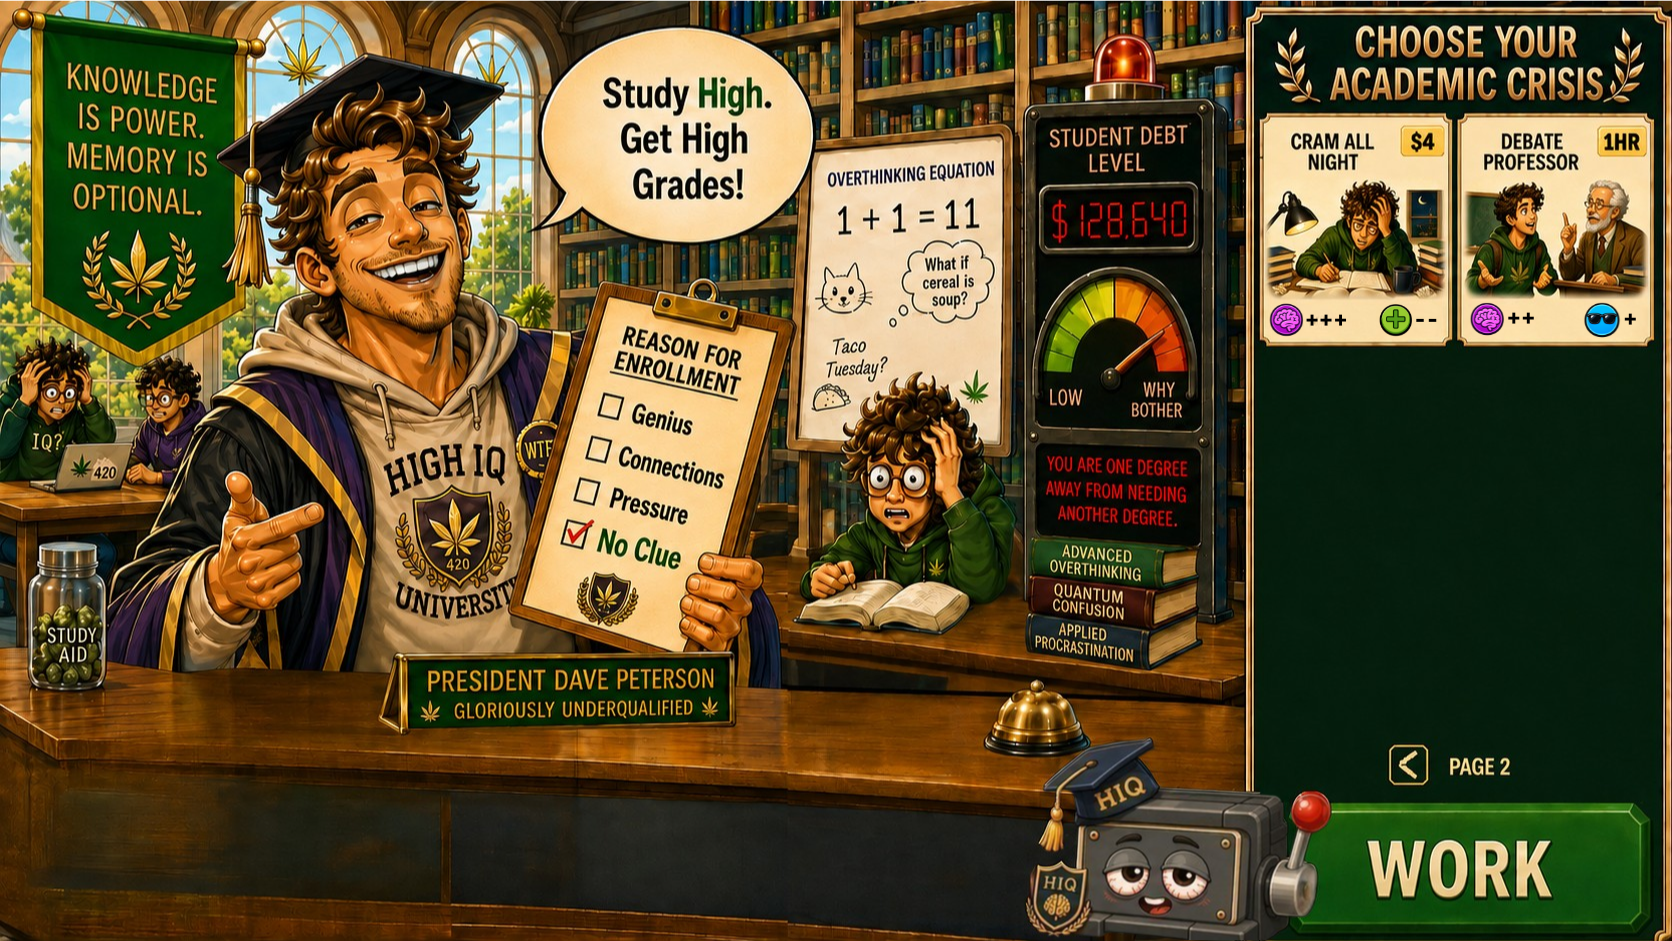
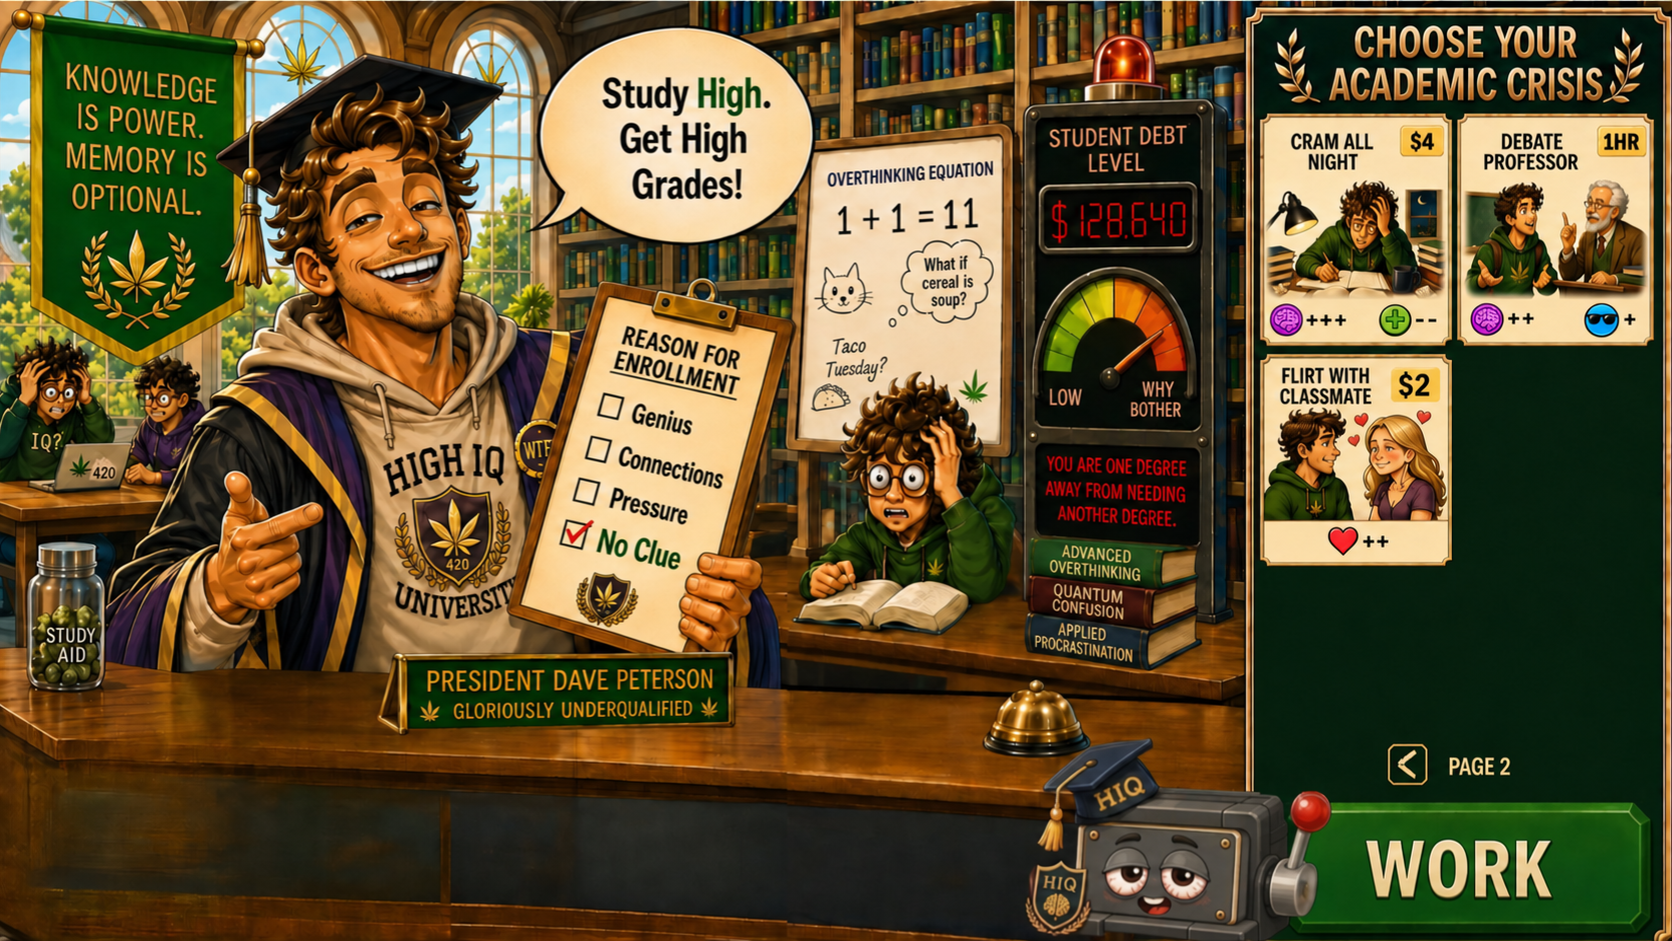
Wire in 2026-09-16 menu repaints; Gym/Pet Shop repriced to art; club jobs need dress code
Art: University pages 1-2 (5 path cards + Flirt on page 2), Regret Burger,
Air One (re-measured grid, new 2-week groceries card), Debtstreet (Cash Out
replaces Penny Stocks), Low-Cost and Heelton rent offices.
University path cards open the catalog on their path and show COMPLETE.

Balance Lock v5 sheet: Gym $5/$10/$25/$40/$15 and Pet Shop food $20,
toy $25, feed $5, bathe $10, bribe $50 to match the painted menus.

Fix: the job board offered Bad Decisions Club jobs to players who fail the
club dress code, so they could never reach work and got fired.
Bots no longer grind stat-draining shifts at low Health/Happiness.

diff --git a/js/ui.js b/js/ui.js
@@ -1252,6 +1252,7 @@
     var activeH = actionId === h.a ? h : Object.assign({}, h, { a: actionId });
     btn.dataset.a = actionId;
     if (h.choice) btn._choice = h.choice;
+    if (h.focusPath) btn._focusPath = h.focusPath;
     btn.style.left = h.box[0] + "%";
     btn.style.top = h.box[1] + "%";
     btn.style.width = h.box[2] + "%";
@@ -1263,6 +1264,7 @@
       if (!isMyTurn()) { toast("Not your turn"); return; }
       click();
       hideTip();
+      UI.coursePathFocus = btn._focusPath || null;
       doAction(actionId, btn._choice);
     };
     return btn;
@@ -1408,11 +1410,19 @@
       var item = itemName && E.ITEMS && E.ITEMS[itemName];
       var owned = item && p.items.indexOf(item.name) !== -1;   // one-time buy already owned
       if (!locked && item && itemBlockReason(p, item)) locked = true;
+      // university path cards: completed paths show a green COMPLETE chip,
+      // paths beyond the next course show locked (the catalog still opens)
+      var fp = btn._focusPath, pathDone = fp && E.pathComplete(p, fp);
+      if (fp && !pathDone) {
+        var nextC = E.nextCourse(p);
+        locked = !ann || !ann.ok || (nextC ? nextC.path < fp : false);
+      }
+      if (pathDone) { locked = true; owned = true; }
       btn.classList.toggle("locked", locked);
       btn.classList.toggle("owned", !!owned);
       var lc = btn.querySelector(".lock-chip");
       lc.style.display = locked ? "" : "none";
-      lc.textContent = owned ? "✓ OWNED" : "🔒";
+      lc.textContent = pathDone ? "✓ COMPLETE" : owned ? "✓ OWNED" : "🔒";
       var tc = btn.querySelector(".tu-chip");
       if (ann) tc.textContent = ann.tu + " TU" + (ann.cost ? " · $" + ann.cost : "");
     });
@@ -1669,6 +1679,12 @@
           }).join("") + "</div>";
       }).join("");
     openDialog("shop");
+    // opened from a painted path card: bring that path into view
+    if (UI.coursePathFocus) {
+      var focusEl = $$("#shop-grid .course-path")[UI.coursePathFocus - 1];
+      UI.coursePathFocus = null;
+      if (focusEl) { focusEl.classList.add("focus"); focusEl.scrollIntoView({ block: "center" }); }
+    }
     $$("#shop-grid .shop-item.course").forEach(function (b) {
       b.onclick = function () {
         click();

diff --git a/assets/data/gamedata.js b/assets/data/gamedata.js
@@ -1391,7 +1391,7 @@ var PP_DATA = {
    "name": "Cardio Session",
    "category": "Health",
    "tu": 1,
-   "costPct": 0.01,
+   "costPct": 0.05,
    "gains": [
     {
      "stat": "health",
@@ -1410,7 +1410,7 @@ var PP_DATA = {
    "name": "Chest Day",
    "category": "Health",
    "tu": 1,
-   "costPct": 0.02,
+   "costPct": 0.1,
    "gains": [
     {
      "stat": "health",
@@ -1438,7 +1438,7 @@ var PP_DATA = {
    "name": "Treninator Bootcamp",
    "category": "Health",
    "tu": 2,
-   "costPct": 0.05,
+   "costPct": 0.25,
    "gains": [
     {
      "stat": "health",
@@ -1462,7 +1462,7 @@ var PP_DATA = {
    "name": "Buy Suspicious Test Booster",
    "category": "Shopping",
    "tu": 1,
-   "costPct": 0.08,
+   "costPct": 0.4,
    "gains": [
     {
      "stat": "health",
@@ -1537,7 +1537,7 @@ var PP_DATA = {
    "name": "Personal Best Challenge",
    "category": "Health",
    "tu": 2,
-   "costPct": 0.03,
+   "costPct": 0.15,
    "gains": [
     {
      "stat": "health",
@@ -2940,7 +2940,7 @@ var PP_DATA = {
    "name": "Buy Pet Food",
    "category": "Pet",
    "tu": 1,
-   "costPct": 0.04,
+   "costPct": 0.2,
    "gains": [],
    "petGains": [],
    "penalties": [],
@@ -2963,7 +2963,7 @@ var PP_DATA = {
    "name": "Buy Pet Toy",
    "category": "Pet",
    "tu": 1,
-   "costPct": 0.05,
+   "costPct": 0.25,
    "gains": [],
    "petGains": [
     {
@@ -2990,7 +2990,7 @@ var PP_DATA = {
    "name": "Feed Animals",
    "category": "Pet",
    "tu": 1,
-   "costPct": 0.01,
+   "costPct": 0.05,
    "gains": [],
    "petGains": [
     {
@@ -3013,7 +3013,7 @@ var PP_DATA = {
    "name": "Bathe Animals",
    "category": "Pet",
    "tu": 1,
-   "costPct": 0.02,
+   "costPct": 0.1,
    "gains": [],
    "petGains": [
     {
@@ -3060,7 +3060,7 @@ var PP_DATA = {
    "name": "Bribe Inspector",
    "category": "Risk",
    "tu": 1,
-   "costPct": 0.1,
+   "costPct": 0.5,
    "gains": [
     {
      "stat": "critical",

diff --git a/test/airone_ui.js b/test/airone_ui.js
@@ -30,13 +30,15 @@ var SHOTS = path.join(__dirname, "shots");
     return nodes.map(function (b) { return { id: b.dataset.a, box: [b.style.left, b.style.top, b.style.width, b.style.height] }; });
   });
   var ids = buttons.map(function (b) { return b.id; });
-  var expectedIds = ["A026", "A027", "A028", "A029", "A031", "A032", "A030", "A033"];
+  var expectedIds = ["A026", "A027", "A028", "A029", "A031", "A032", "A121", "A030", "A033"];
   if (ids.join(",") !== expectedIds.join(",")) throw new Error("Air One ids: " + ids.join(","));
   var expectedBoxes = {
-    A026: ["70.6%", "11.5%", "12.9%", "18.9%"], A027: ["83.9%", "11.5%", "14.9%", "18.9%"],
-    A028: ["70.6%", "32.2%", "12.9%", "18.8%"], A029: ["83.9%", "32.2%", "14.9%", "18.8%"],
-    A031: ["70.6%", "53.8%", "12.9%", "15.3%"], A032: ["83.9%", "53.8%", "14.9%", "15.3%"],
-    A030: ["70.6%", "71.7%", "28.2%", "8.3%"], A033: ["77.2%", "84%", "21.6%", "11.8%"]
+    // 2026-09-16 repaint: 4 rows, bottom row split into 2-week groceries + Judge Window Shoppers
+    A026: ["70.4%", "10.6%", "13.6%", "19.2%"], A027: ["84.7%", "10.6%", "14%", "19.2%"],
+    A028: ["70.4%", "30.8%", "13.6%", "18.5%"], A029: ["84.7%", "30.8%", "14%", "18.5%"],
+    A031: ["70.4%", "50.3%", "13.6%", "16.8%"], A032: ["84.7%", "50.3%", "14%", "16.8%"],
+    A121: ["70.4%", "68.2%", "13.6%", "13.7%"], A030: ["84.7%", "68.2%", "14%", "13.7%"],
+    A033: ["77.2%", "84%", "21.6%", "11.8%"]
   };
   buttons.forEach(function (b) {
     if (b.box.join(",") !== expectedBoxes[b.id].join(",")) throw new Error("Air One box " + b.id + ": " + b.box.join(","));

diff --git a/assets/data/scene_hotspots.js b/assets/data/scene_hotspots.js
@@ -39,13 +39,15 @@ var PP_HOTSPOTS = {
     { a: "A023", box: [85.4, 55.0, 13.0, 19.4] }
   ],
   airOne: [
-    { a: "A026", box: [70.6, 11.5, 12.9, 18.9] },
-    { a: "A027", box: [83.9, 11.5, 14.9, 18.9] },
-    { a: "A028", box: [70.6, 32.2, 12.9, 18.8] },
-    { a: "A029", box: [83.9, 32.2, 14.9, 18.8] },
-    { a: "A031", box: [70.6, 53.8, 12.9, 15.3] },
-    { a: "A032", box: [83.9, 53.8, 14.9, 15.3] },
-    { a: "A030", box: [70.6, 71.7, 28.2, 8.3] },
+    // re-measured for the v5 repaint (2026-09-16): 4 rows, bottom row split
+    { a: "A026", box: [70.4, 10.6, 13.6, 19.2] },
+    { a: "A027", box: [84.7, 10.6, 14.0, 19.2] },
+    { a: "A028", box: [70.4, 30.8, 13.6, 18.5] },
+    { a: "A029", box: [84.7, 30.8, 14.0, 18.5] },
+    { a: "A031", box: [70.4, 50.3, 13.6, 16.8] },
+    { a: "A032", box: [84.7, 50.3, 14.0, 16.8] },
+    { a: "A121", box: [70.4, 68.2, 13.6, 13.7] },
+    { a: "A030", box: [84.7, 68.2, 14.0, 13.7] },
     { a: "A033", work: true, box: [77.2, 84.0, 21.6, 11.8] }
   ],
   regretBurger: [
@@ -106,7 +108,7 @@ var PP_HOTSPOTS = {
     { a: "A088", box: [82.0, 31.0, 16.0, 15.0] },
     { a: "A089", box: [68.5, 47.0, 13.0, 15.0] },
     { a: "A090", box: [82.0, 47.0, 16.0, 15.0] },
-    { a: "A091", box: [68.5, 63.0, 29.5, 11.0] },
+    { a: "A119", box: [68.5, 63.0, 29.5, 11.0] },   // v5 repaint: Cash Out replaced Buy Penny Stocks (now in More)
     { a: "A092", work: true, box: [68.5, 83.0, 29.5, 13.5] }
   ],
   airport: [

diff --git a/assets/data/scene_visuals.js b/assets/data/scene_visuals.js
@@ -124,12 +124,13 @@
         img: V3 + "high_iq_university_page_1.png",
         arrows: { prev: [0, 0, 0, 0], next: [88.7, 78.7, 4.2, 5.9] },
         hotspots: [
-          { a: "A120", box: [75.0, 12.2, 11.6, 23.4] },
-          { a: "A068", box: [87.0, 12.2, 11.5, 23.4] },
-          { a: "A069", box: [75.0, 35.7, 11.6, 23.6] },
-          { a: "A120", box: [87.0, 35.7, 11.5, 23.6] },
-          { a: "A120", box: [75.0, 59.8, 11.6, 21.4] },
-          { a: "A120", box: [87.0, 59.8, 11.5, 21.4] }
+          // v5 repaint: one card per education path (opens the catalog on that path)
+          { a: "A120", focusPath: 1, box: [75.0, 12.2, 11.6, 23.4] },
+          { a: "A120", focusPath: 2, box: [87.0, 12.2, 11.5, 23.4] },
+          { a: "A120", focusPath: 3, box: [75.0, 35.7, 11.6, 23.6] },
+          { a: "A120", focusPath: 4, box: [87.0, 35.7, 11.5, 23.6] },
+          { a: "A120", focusPath: 5, box: [75.0, 59.8, 11.6, 21.4] },
+          { a: "A068", box: [87.0, 59.8, 11.5, 21.4] }
         ]
       },
       {
@@ -137,7 +138,8 @@
         arrows: { prev: [82.7, 78.4, 4.2, 6.2], next: [0, 0, 0, 0] },
         hotspots: [
           { a: "A073", box: [75.0, 12.2, 11.6, 24.3] },
-          { a: "A074", box: [87.0, 12.2, 11.5, 24.3] }
+          { a: "A074", box: [87.0, 12.2, 11.5, 24.3] },
+          { a: "A069", box: [75.4, 38.2, 11.4, 21.9] }
         ]
       }
     ] }]

diff --git a/test/v5_rules.js b/test/v5_rules.js
@@ -180,13 +180,22 @@ test("lifestyle loan: +15%B now, -5%B at the start of each of the next 4 turns, 
   assert.strictEqual(p.debts.length, 0);
 });
 
-test("Bribe Inspector costs money + Critical Thinking; Contact P.I.T.A. once per game", () => {
+test("Bribe Inspector costs $50 + Critical Thinking; Contact P.I.T.A. once per game", () => {
   const st = game(), p = st.players[0]; rich(p, 500); p.location = "petShop";
   const c = p.stats.critical;
   assert.ok(E.perform(st, "A108").ok);
-  assert.strictEqual(p.stats.money, 490); assert.ok(p.stats.critical > c);
+  assert.strictEqual(p.stats.money, 450); assert.ok(p.stats.critical > c);   // $50: matches the painted Bribes card
   assert.ok(E.perform(st, "A109").ok);
   assert.strictEqual(E.perform(st, "A109").ok, false);
+});
+
+test("club jobs require the club dress code (no unworkable hires)", () => {
+  const st = game(), p = st.players[0]; rich(p); p.location = "soulExchange";
+  let r = E.perform(st, "A076", { job: "Coat Check Staff", building: "club" });
+  assert.strictEqual(r.ok, false); assert.match(r.why, /Dress code/);
+  p.items.push("Dressy Clothes", "Dress Shoes"); p.stats.coolness = 100;
+  r = E.perform(st, "A076", { job: "Coat Check Staff", building: "club" });
+  assert.ok(r.ok, r.why);
 });
 
 test("final score counts Money at most T (max score 6T)", () => {

diff --git a/test/scene_visuals.js b/test/scene_visuals.js
@@ -35,10 +35,10 @@ pages.luxury.tabs[0].pages.forEach(page => {
   assert.deepStrictEqual(Array.from(page.hotspots, h => h.a), ["A009", "A010", "A011", "A012", "A013", "A014", "A015", "A016"]);
 });
 assert.strictEqual(pages.university.tabs[0].pages.length, 2);
-assert.deepStrictEqual(Array.from(pages.university.tabs[0].pages[1].hotspots, h => h.a), ["A073", "A074"]);
+assert.deepStrictEqual(Array.from(pages.university.tabs[0].pages[1].hotspots, h => h.a), ["A073", "A074", "A069"]);
 assert.strictEqual(pages.airport.tabs[0].pages.length, 2);
 assert.deepStrictEqual(Array.from(pages.airport.tabs[0].pages[1].hotspots, h => h.a), ["A099", "A100"]);
-assert.deepStrictEqual(Array.from(hotspots.airOne, h => h.a), ["A026", "A027", "A028", "A029", "A031", "A032", "A030", "A033"]);
+assert.deepStrictEqual(Array.from(hotspots.airOne, h => h.a), ["A026", "A027", "A028", "A029", "A031", "A032", "A121", "A030", "A033"]);
 assert.deepStrictEqual(JSON.parse(JSON.stringify(pages.luxury.tabs[1].pages[0].hotspots[0].aByHousing)),
   { lux: "X007", low: "X003", homeless: "X009" });
 assert.deepStrictEqual(JSON.parse(JSON.stringify(pages.lowCost.tabs[1].pages[0].hotspots[0].aByHousing)),

diff --git a/js/bots.js b/js/bots.js
@@ -256,9 +256,11 @@
     var goal = shoppingGoal(state, p);
     var nextFee = course ? E.courseCostDue(state, p, course) : 0;
     var needCash = p.stats.money < 4 * B || (goal && !goal.affordable) || p.stats.money < nextFee + reserveOf(state, p) ||
-      (p.job && Object.keys(DATA.jobProgression.tiers).some(function (t) {   // keep earning tier clicks
-        var g = E.tierGate(state, p, t); return g.pathOk && !g.clicksOk;
-      }));
+      // keep earning tier clicks — but never grind a stat-draining job into the ground
+      (p.job && p.stats.health > 0.3 * T && p.stats.happiness > 0.3 * T &&
+        Object.keys(DATA.jobProgression.tiers).some(function (t) {
+          var g = E.tierGate(state, p, t); return g.pathOk && !g.clicksOk;
+        }));
     if (p.job && needCash) {
       if (p.location === p.job.building) {
         var work = findHere(function (x) { return x.name === "Work"; });

diff --git a/test/manual_menu_coverage.js b/test/manual_menu_coverage.js
@@ -13,7 +13,7 @@ var ranges = {
 var intentionalMore = {
   park: ["A024", "A025"], club: ["A056"], mall: ["A111", "A116", "A117"],
   // v4/v5 additions with no painted button yet: Cash Out, 2-week groceries
-  debtstreet: ["A119"], airOne: ["A121"]
+  debtstreet: ["A091"]   // 2026-09-16 repaint: Cash Out painted, Penny Stocks moved to More
 };
 // v5 removed Take Class / Finish Undergrad / Master's / PhD / Ask for Promotion
 var removed = ["A067", "A070", "A071", "A072", "A084"];
@@ -66,4 +66,4 @@ if (failures.length) {
   failures.forEach(function (msg) { console.error("FAIL", msg); });
   process.exit(1);
 }
-console.log("MANUAL MENU COVERAGE PASS: only Park A024/A025, Club A056, Mall A111/A116/A117, Debtstreet A119 and Air One A121 remain in More");
+console.log("MANUAL MENU COVERAGE PASS: only Park A024/A025, Club A056, Mall A111/A116/A117, and Debtstreet A091 remain in More");

diff --git a/test/kendrick_ui.js b/test/kendrick_ui.js
@@ -74,7 +74,7 @@ var SHOTS = path.join(__dirname, "shots");
     document.querySelector(".hotspot[data-id='university']").click();
     return Array.prototype.map.call(document.querySelectorAll("#paint-layer .paint-btn"), function (b) { return b.dataset.a; });
   });
-  if (uniButtons.filter(function (id) { return id === "A120"; }).length !== 4 || uniButtons.some(function (id) { return /A06[7]|A07[012]/.test(id); }))
+  if (uniButtons.filter(function (id) { return id === "A120"; }).length !== 5 || uniButtons.some(function (id) { return /A06[7]|A07[012]/.test(id); }))
     throw new Error("University painted buttons: " + uniButtons.join(","));
   await page.evaluate(function () { document.querySelectorAll("#paint-layer .paint-btn[data-a='A120']")[3].click(); });
   await page.waitForSelector("#dlg-shop.show", { timeout: 5000 });

diff --git a/test/manual_menu_ui.js b/test/manual_menu_ui.js
@@ -38,7 +38,7 @@ var URL = process.env.PP_URL || "http://localhost:8123/index.html";
     gym: { ids: ["A042","A043","A044","A045","A046","A047","A048","A049"], more: false },
     temple: { ids: ["A058","A059","A060","A061","A062","A063","A064","A065","A066"], more: false },
     soulExchange: { ids: ["A076","A078","A079","A080","A081","A082","A083","A076","A077"], more: false },
-    airOne: { ids: ["A026","A027","A028","A029","A031","A032","A030","A033"], more: false }
+    airOne: { ids: ["A026","A027","A028","A029","A031","A032","A121","A030","A033"], more: false }
   };
   var results = {};
   for (var id of Object.keys(checks)) {

diff --git a/css/style.css b/css/style.css
@@ -956,6 +956,7 @@ input[type="range"] { width: 14em; accent-color: var(--orange); }
 .course-path-head { grid-column: 1 / -1; font-weight: 900; margin-top: .25em; }
 .course-path-head span { font-weight: 700; opacity: .75; font-size: .85em; }
 .course-path.complete .course-path-head { color: #145c14; }
+.course-path.focus { outline: .2em dashed var(--gold); outline-offset: .2em; border-radius: .4em; }
 .shop-item.course { padding: .35em .45em; }
 .shop-item.course .s-name { font-size: .92em; line-height: 1.1; }
 .shop-item.course .s-fx { font-size: .74em; }
